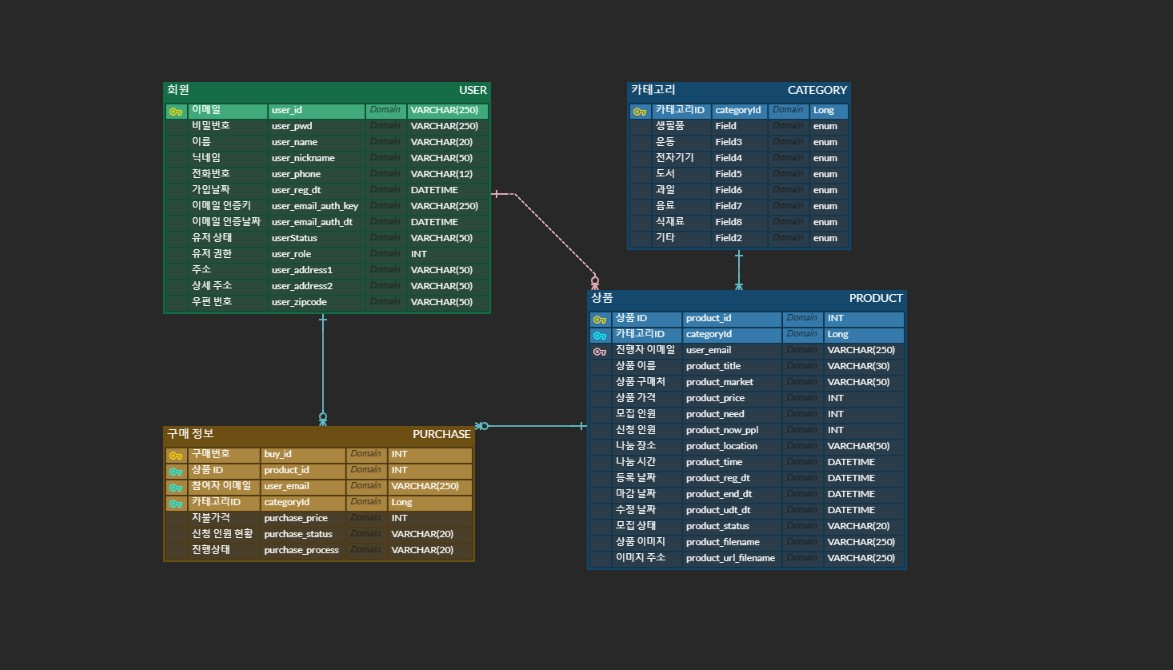
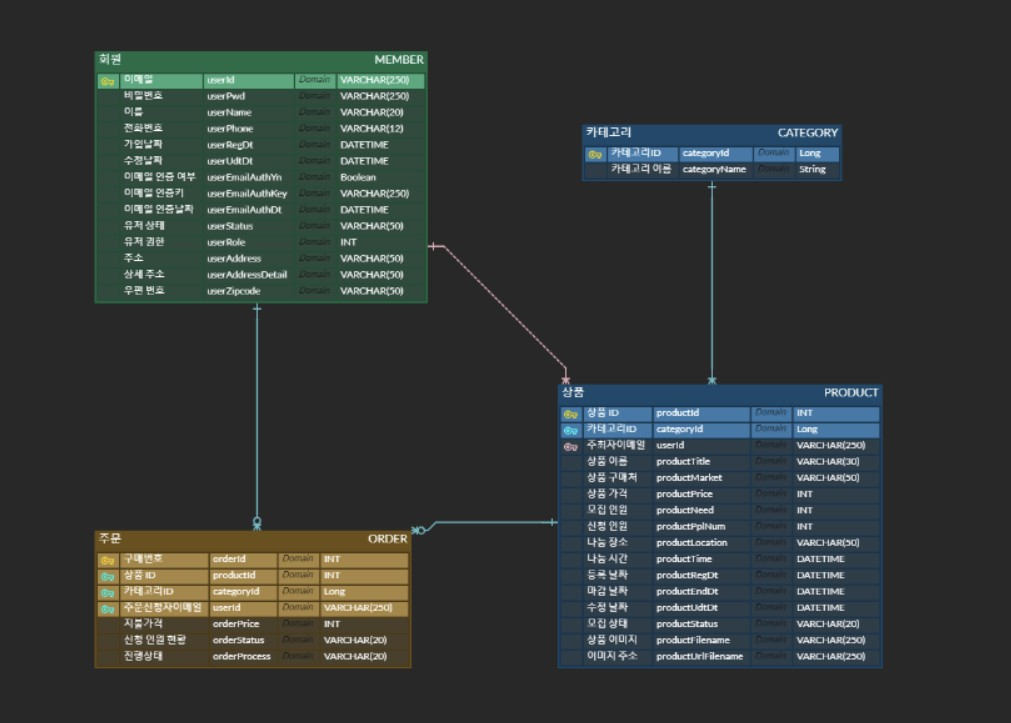
feat: MemberEntity 수정

diff --git a/src/main/resources/templates/member/register.html b/src/main/resources/templates/member/register.html
@@ -10,7 +10,7 @@
 
 <form method="post">
     <div>
-        아이디 : <input type="email" name="userId" placeholder=" ex) abc@gmail.com" required/>
+        아이디 : <input type="text" name="userId" required/>
     </div>
     <div>
         이름 : <input type="text" name="userName" required/>
@@ -22,8 +22,8 @@
         비밀번호 확인 : <input type="password" name="rePassword" required/>
     </div>
     <div>
-        사용 닉네임 : <input type="text" name="userNickname" required/>
-        <p>추후 닉네임은 수정이 불가하오니, 참고 부탁드립니다.</p>
+        사용 이메일 : <input type="email" name="userEmail" placeholder=" ex) abc@gmail.com" required/>
+        <p>회원가입 인증 메일 및 상품에 대한 정보를 전달 받는 이메일입니다.</p>
     </div>
     <div>
         전화번호 : <input type="tel" name="phone" required/>

diff --git a/src/main/resources/templates/member/info.html b/src/main/resources/templates/member/info.html
@@ -43,7 +43,7 @@
         <table>
             <tbody>
             <tr>
-                <th>아이디(이메일)</th>
+                <th>아이디</th>
                 <td>
                     <p th:text="${detail.userId}">아이디</p>
                 </td>
@@ -55,9 +55,9 @@
                 </td>
             </tr>
             <tr>
-                <th>닉네임</th>
+                <th>이메일</th>
                 <td>
-                    <p th:text="${detail.userNickname}">이름</p>
+                    <p th:text="${detail.userEmail}">이름</p>
                 </td>
             </tr>
             <tr>

diff --git a/src/main/resources/templates/member/login.html b/src/main/resources/templates/member/login.html
@@ -12,7 +12,7 @@
 <form method="post">
 
     <div>
-        <input type="text" name="username" placeholder="이메일 입력" required />
+        <input type="text" name="username" placeholder="아이디 입력" required />
     </div>
     <div>
         <input type="password" name="password" placeholder="비밀번호 입력" required />

diff --git a/src/main/java/com/dalgorithm/nbuy/member/service/impl/MemberServiceImpl.java b/src/main/java/com/dalgorithm/nbuy/member/service/impl/MemberServiceImpl.java
@@ -1,11 +1,11 @@
 package com.dalgorithm.nbuy.member.service.impl;
 
+import com.dalgorithm.nbuy.common.Exception.NbuyException;
 import com.dalgorithm.nbuy.common.ServiceResult;
+import com.dalgorithm.nbuy.common.type.ErrorCode;
 import com.dalgorithm.nbuy.member.components.MailComponents;
 import com.dalgorithm.nbuy.member.dto.MemberDto;
 import com.dalgorithm.nbuy.member.entity.Member;
-import com.dalgorithm.nbuy.member.exception.MemberNotEmailAuthException;
-import com.dalgorithm.nbuy.member.exception.MemberStopUserException;
 import com.dalgorithm.nbuy.member.model.MemberInput;
 import com.dalgorithm.nbuy.member.repository.MemberRepository;
 import com.dalgorithm.nbuy.member.service.MemberService;
@@ -36,18 +36,16 @@ public class MemberServiceImpl implements MemberService {
 
         Optional<Member> optionalMember = memberRepository.findById(memberInput.getUserId());
         if (optionalMember.isPresent()) {
-            //현재 userId에 해당하는 데이터 존재
-            return false;
+            throw new NbuyException(ErrorCode.MEMBER_ALREADY_EXIST);
         }
 
         String encPassword = BCrypt.hashpw(memberInput.getPassword(), BCrypt.gensalt());
         String uuid = UUID.randomUUID().toString();
 
-        // input 값 못가져오는 부분 확인하기
         Member member = Member.builder()
                 .userId(memberInput.getUserId())
                 .userName(memberInput.getUserName())
-                .userNickname(memberInput.getUserNickname())
+                .userEmail(memberInput.getUserEmail())
                 .phone(memberInput.getPhone())
                 .password(encPassword)
                 .userRole(0)
@@ -57,7 +55,7 @@ public class MemberServiceImpl implements MemberService {
                 .build();
         memberRepository.save(member);
 
-        String email = memberInput.getUserId();
+        String email = memberInput.getUserEmail();
         String subject = "[N-BUY] 사이트 가입을 축하드립니다. ";
         String text = "<p>N-BUY 사이트 가입을 축하드립니다.<p><p>아래 링크를 클릭하셔서 가입을 완료 하세요.</p>"
                 + "<div><a target='_blank' href='http://localhost:8080/member/email_auth?id=" + uuid + "'> 가입 완료 </a></div>";
@@ -133,15 +131,15 @@ public class MemberServiceImpl implements MemberService {
         Member member = optionalMember.get();
 
         if (Member.MEMBER_STATUS_REQ.equals(member.getUserStatus())) {
-            throw new MemberNotEmailAuthException("이메일 활성화 이후에 로그인을 해주세요.");
+            throw new NbuyException(ErrorCode.MEMBER_NOT_EMAIL_AUTH);
         }
 
         if (Member.MEMBER_STATUS_STOP.equals(member.getUserStatus())) {
-            throw new MemberStopUserException("정지된 회원 입니다.");
+            throw new NbuyException(ErrorCode.MEMBER_STOP_USE);
         }
 
         if (Member.MEMBER_STATUS_WITHDRAW.equals(member.getUserStatus())) {
-            throw new MemberStopUserException("탈퇴된 회원 입니다.");
+            throw new NbuyException(ErrorCode.MEMBER_WITHDRAW);
         }
 
         List<GrantedAuthority> grantedAuthorities = new ArrayList<>();

diff --git a/src/main/java/com/dalgorithm/nbuy/member/dto/MemberDto.java b/src/main/java/com/dalgorithm/nbuy/member/dto/MemberDto.java
@@ -1,34 +1,34 @@
 package com.dalgorithm.nbuy.member.dto;
 
 import com.dalgorithm.nbuy.member.entity.Member;
-import lombok.AllArgsConstructor;
-import lombok.Builder;
-import lombok.Data;
-import lombok.NoArgsConstructor;
+import lombok.*;
 
+import javax.validation.constraints.NotBlank;
+import javax.validation.constraints.NotEmpty;
 import java.time.LocalDateTime;
 import java.time.format.DateTimeFormatter;
 
 @Builder
-@Data
-@NoArgsConstructor
+@Getter
+@Setter
 @AllArgsConstructor
 public class MemberDto {
 
-    String userId;
-    String userName;
-    String userNickname;
-    String phone;
-    String password;
-    LocalDateTime regDt;
-    LocalDateTime udtDt;
+    private String userId;
+    private String userName;
+    private String userEmail;
+    private String password;
 
-    String emailAuthKey;
-    boolean emailAuthYn;
-    LocalDateTime emailAuthDt;
+    private String phone;
+    private LocalDateTime regDt;
+    private LocalDateTime udtDt;
 
-    int userRole;
-    String userStatus;
+    private String emailAuthKey;
+    private boolean emailAuthYn;
+    private LocalDateTime emailAuthDt;
+
+    private int userRole;
+    private String userStatus;
 
     private String zipcode;
     private String addr;
@@ -39,11 +39,12 @@ public class MemberDto {
     // 시퀀스 처리
     long seq;
 
+
     public static MemberDto of(Member member) {
         return MemberDto.builder()
                 .userId(member.getUserId())
                 .userName(member.getUserName())
-                .userNickname(member.getUserNickname())
+                .userEmail(member.getUserEmail())
                 .phone(member.getPhone())
                 .password(member.getPassword())
                 .regDt(member.getRegDt())

diff --git a/src/main/java/com/dalgorithm/nbuy/member/controller/MemberController.java b/src/main/java/com/dalgorithm/nbuy/member/controller/MemberController.java
@@ -5,6 +5,7 @@ import com.dalgorithm.nbuy.member.dto.MemberDto;
 import com.dalgorithm.nbuy.member.model.MemberInput;
 import com.dalgorithm.nbuy.member.service.MemberService;
 import lombok.RequiredArgsConstructor;
+import lombok.extern.slf4j.Slf4j;
 import org.springframework.stereotype.Controller;
 import org.springframework.ui.Model;
 import org.springframework.web.bind.annotation.GetMapping;
@@ -16,6 +17,7 @@ import java.security.Principal;
 
 @Controller
 @RequiredArgsConstructor
+@Slf4j
 public class MemberController {
 
     private final MemberService memberService;
@@ -43,7 +45,7 @@ public class MemberController {
     public String emailAuth(Model model, HttpServletRequest request) {
 
         String uuid = request.getParameter("id");
-        System.out.println(uuid);
+        log.info(uuid);
 
         boolean result = memberService.emailAuth(uuid);
         model.addAttribute("result", result);

diff --git a/src/main/java/com/dalgorithm/nbuy/member/entity/Member.java b/src/main/java/com/dalgorithm/nbuy/member/entity/Member.java
@@ -1,10 +1,8 @@
 package com.dalgorithm.nbuy.member.entity;
 
-import lombok.AllArgsConstructor;
-import lombok.Builder;
-import lombok.Data;
-import lombok.NoArgsConstructor;
+import lombok.*;
 
+import javax.persistence.Column;
 import javax.persistence.Entity;
 import javax.persistence.Id;
 import java.time.LocalDateTime;
@@ -12,14 +10,16 @@ import java.time.LocalDateTime;
 @NoArgsConstructor
 @AllArgsConstructor
 @Builder
-@Data
-@Entity
+@Getter
+@Setter
+@Entity(name = "member")
 public class Member implements MemberCode {
 
     @Id
     private String userId;
+
     private String userName;
-    private String userNickname;
+    private String userEmail;
     private String password;
     private String phone;
 

diff --git a/src/main/java/com/dalgorithm/nbuy/member/model/MemberInput.java b/src/main/java/com/dalgorithm/nbuy/member/model/MemberInput.java
@@ -9,7 +9,7 @@ public class MemberInput {
 
     private String userId;
     private String userName;
-    private String userNickname;
+    private String userEmail;
     private String phone;
     private String password;
 
